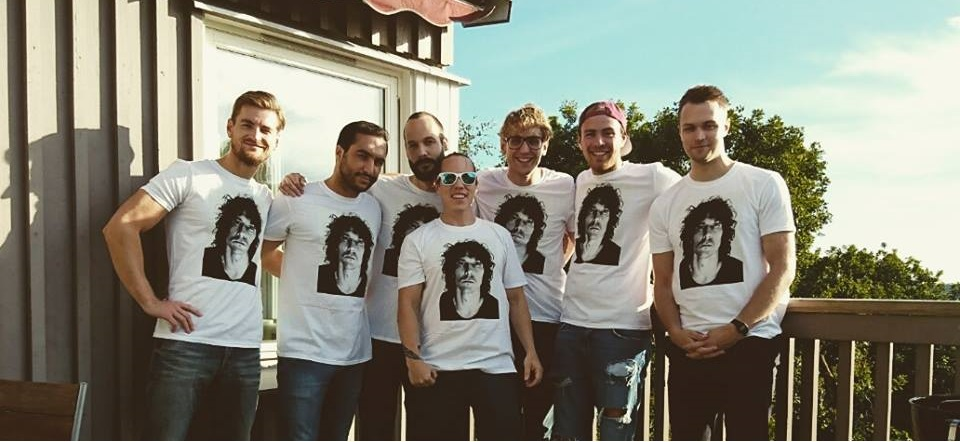
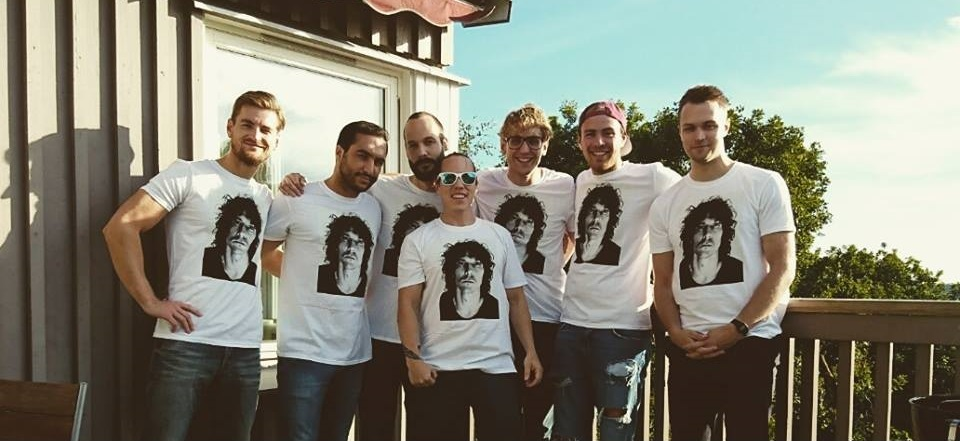
update wrong path in readme.md

diff --git a/README.md b/README.md
@@ -1,5 +1,5 @@
 # Team håkan weekly challenge
-![team hakan](https://raw.githubusercontent.com/klowdo/team-hakan-challenge/master/teamhakan.png)
+![team hakan](https://raw.githubusercontent.com/klowdo/team-hakan-challenge/master/team-hakan.jpg)
 ## Description
 I work at [Collector Bank](http://www.collector.se) were we get weekly coding challenges.
 
